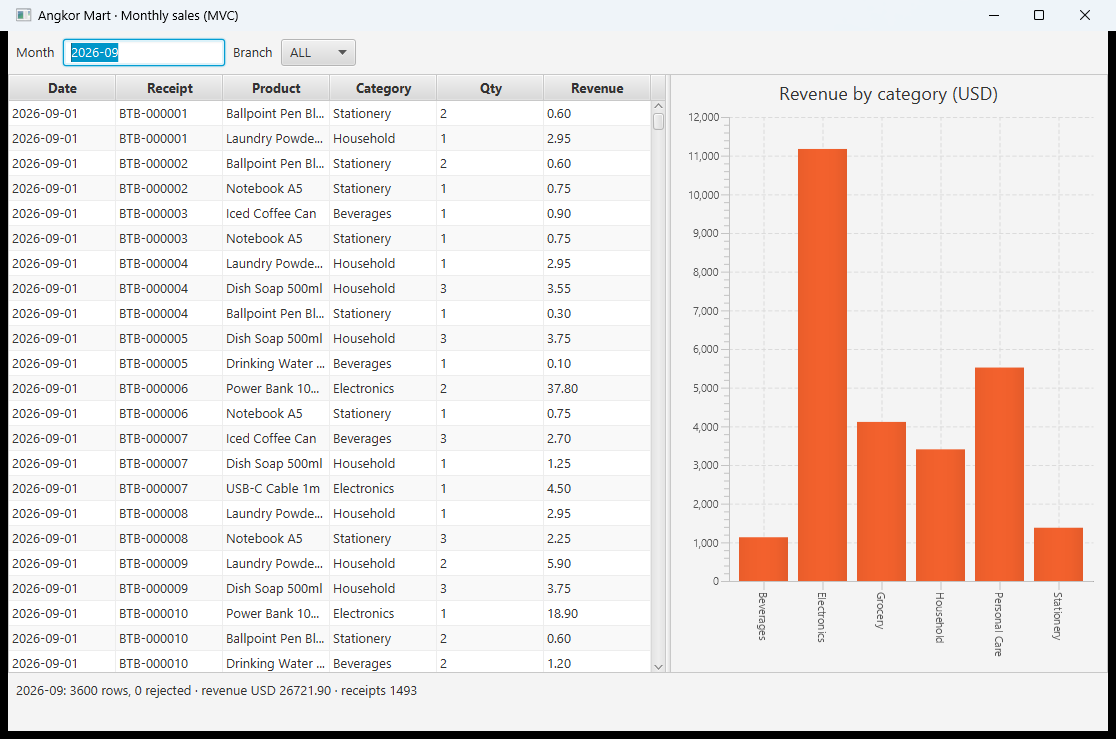
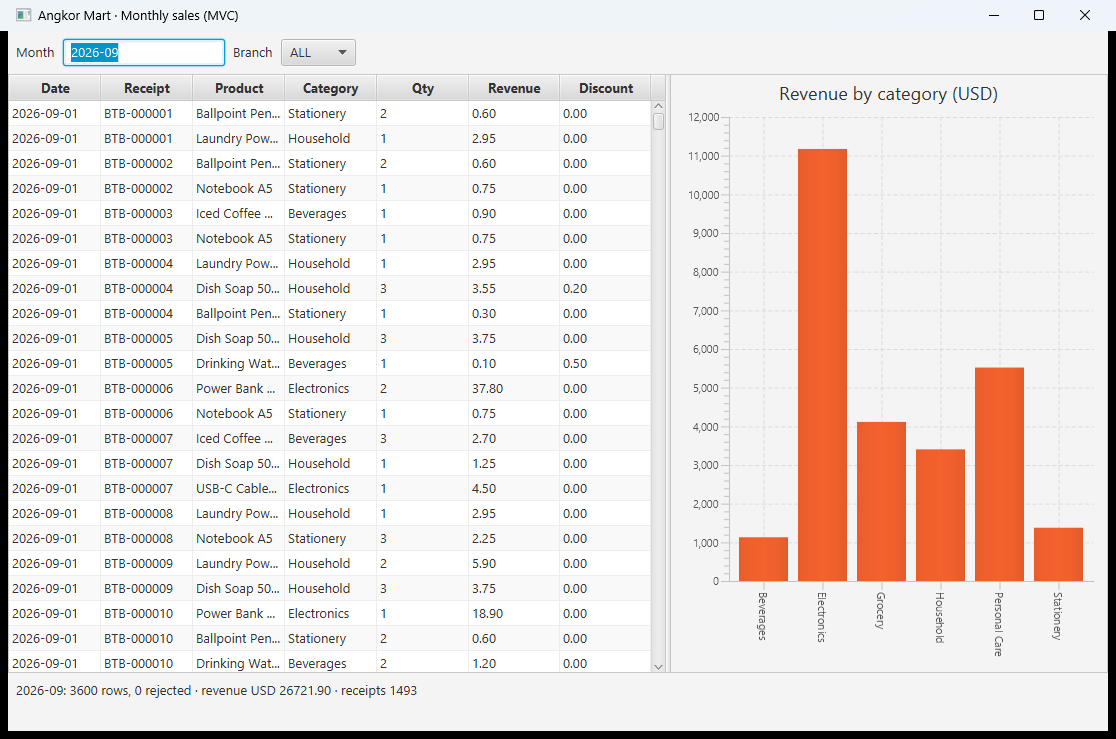
lab02: screenshots that show what they have to show
- validation.png now shows the red error message of the refused input
  ('2026/09' is not a month in the form yyyy-MM) next to the refused row of
  the broken file and to the unchanged revenue
- mvc-viewer.png and mvp-viewer.png are taken again with the final code
- lab02/README.md: what every screenshot shows

diff --git a/lab02/README.md b/lab02/README.md
@@ -80,6 +80,14 @@ whole chain, the revenue by category and the rows that were refused.
 | Domain types and the parser | `src/main/java/.../model`, `.../ingest` | `SaleTransaction`, `PaymentMethod`, `ProductTotal`, `BranchSummary`, `TransactionParser`, `InvalidRowException`, `CsvTransactionParser` | `069d7ac` |
 | Team repository | GitHub `sokuntheary-chheng/sales-report-aurora` | one branch per lab, one tag per lab | — |
 
+## The screenshots
+
+| File | What it shows |
+|---|---|
+| `lab02/screenshots/mvc-viewer.png` | the MVC viewer with 3,600 rows, six bars and the status line `2026-09: 3600 rows, 0 rejected · revenue USD 26721.90 · receipts 1493` |
+| `lab02/screenshots/validation.png` | the same viewer with the broken row of the brief appended: the status line reports `1 rejected` while the revenue stays `26721.90`, the refused row is named (`PNH-2026-09-15.csv:42 quantity must be positive: -1`) and the red label shows the refused input (`'2026/09' is not a month in the form yyyy-MM`) |
+| `lab02/screenshots/mvp-viewer.png` | the MVP variant of the same screen: the same rows and the same bars, the status line of the presenter (`ALL · 1493 receipts · revenue USD 26,721.90 · basket USD 17.90`) |
+
 ## How to build and run
 
 ```bash
